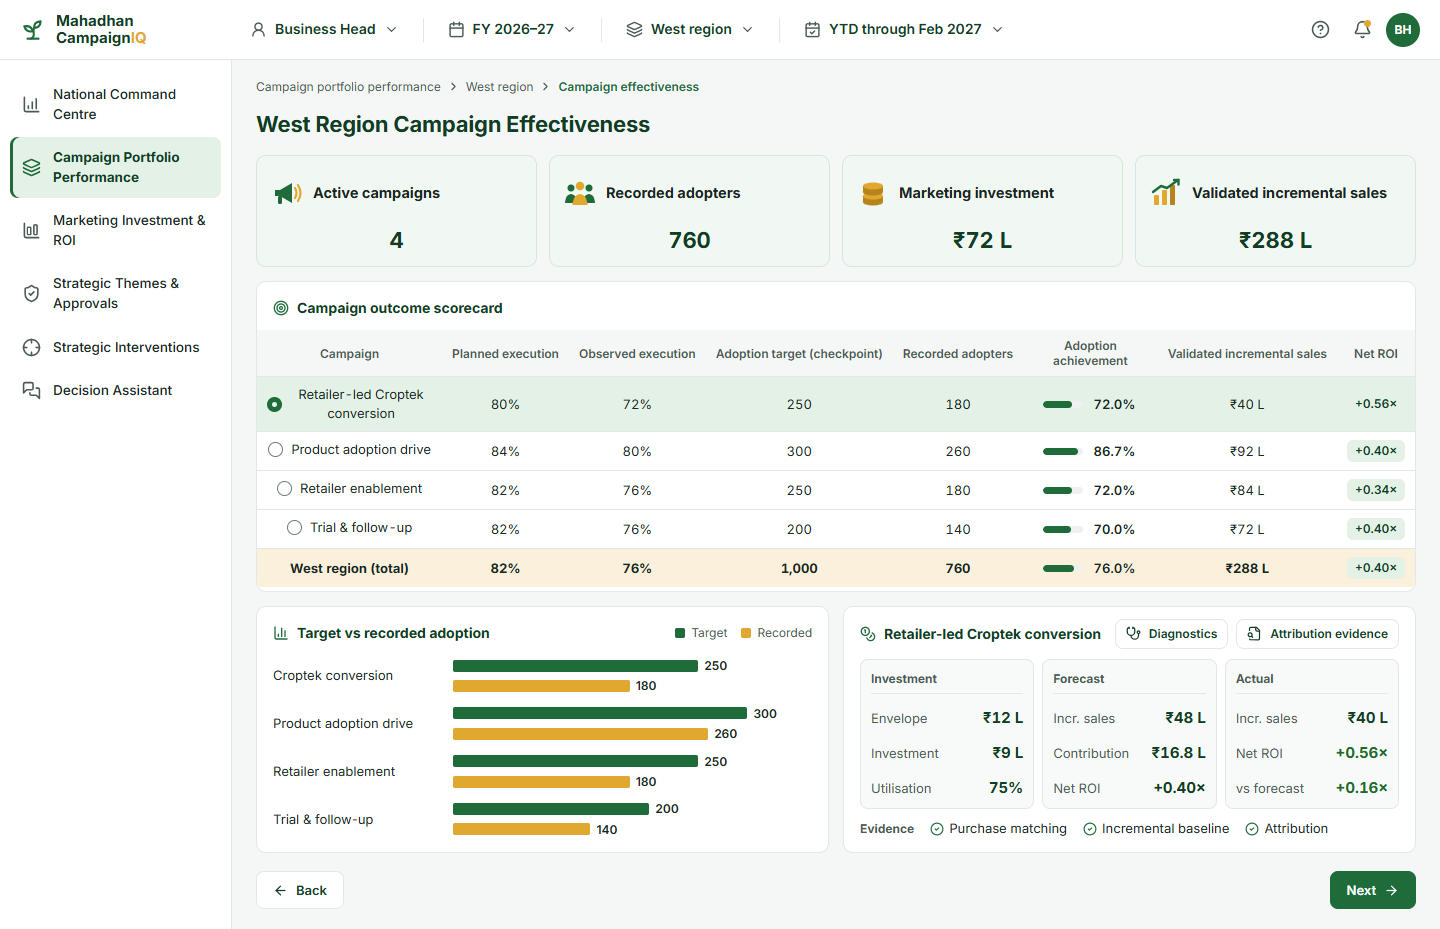
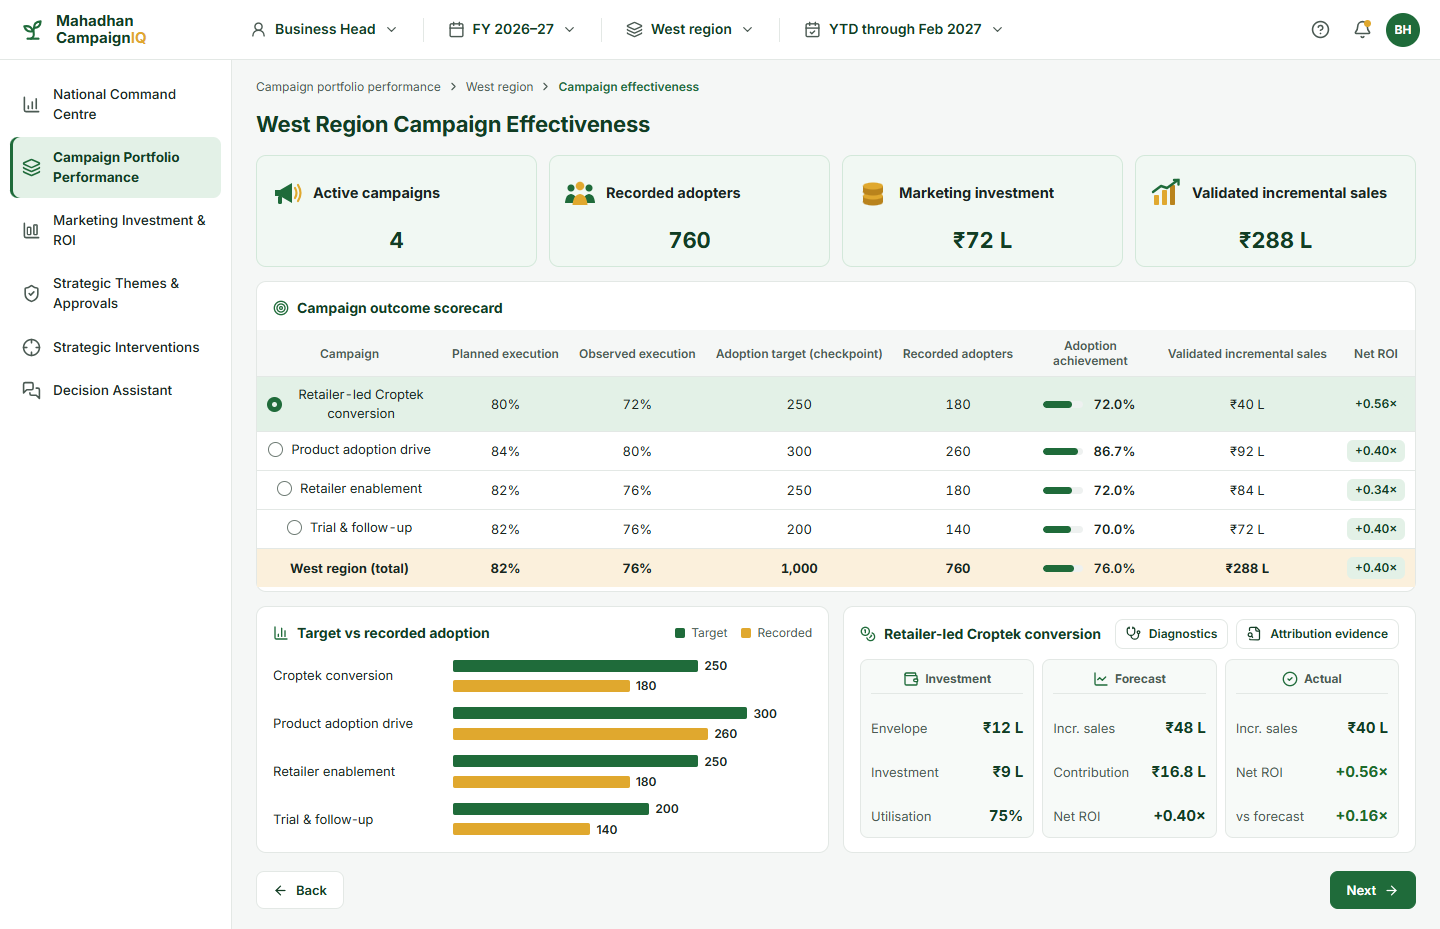
BH: Croptek card panel titles centred, evidence removed

Changed region(s): [[0.5938, 0.718, 0.9688, 0.9053]]

diff --git a/campaigniq-v3/src/screens/Effectiveness.tsx b/campaigniq-v3/src/screens/Effectiveness.tsx
@@ -1,5 +1,5 @@
 /** Screen 5 — Campaign Effectiveness (mockup BH.2a.png) with screen 6 — Campaign Diagnostics drawer (BH.2b.png). */
-import { CircleCheck, ChartColumn, Coins, FileSearch, FileText, Stethoscope, Target } from 'lucide-react';
+import { CheckCircle2, LineChart, Wallet, ChartColumn, Coins, FileSearch, FileText, Stethoscope, Target } from 'lucide-react';
 import { useState } from 'react';
 import { useSearchParams } from 'react-router-dom';
 import { AMBAD, ambadMetrics, businessCase, netRoi, regionRoi, campaignById, campaignMetrics, campaignsOf, campaignTotals, regionById, type Campaign, type CampaignId } from '../data/bh';
@@ -13,7 +13,6 @@ import { Drawer, EvidenceDrawer, type Evidence } from '../ui/overlay';
 import { useBhStore } from '../store/bhStore';
 import { useGo, useRouteRegion } from './common';
 
-const EVIDENCE_ITEMS = ['Purchase matching', 'Incremental baseline', 'Attribution'];
 
 export function Effectiveness() {
   const go = useGo();
@@ -101,22 +100,21 @@ export function Effectiveness() {
 function CommercialStrip({ c, onDiagnostics, onEvidence }: { c: Campaign; onDiagnostics: () => void; onEvidence: () => void }) {
   const m = campaignMetrics(c);
   const bc = businessCase(c.id);
-  const panels: { title: string; rows: { label: string; value: string; good?: boolean }[] }[] = [
-    { title: 'Investment', rows: [{ label: 'Envelope', value: lakh(c.approved) }, { label: 'Investment', value: lakh(c.actual) }, { label: 'Utilisation', value: pct(m.utilisationPct, 0) }] },
-    { title: 'Forecast', rows: [{ label: 'Incr. sales', value: lakh(bc.forecastSales) }, { label: 'Contribution', value: lakh(bc.contribution) }, { label: 'Net ROI', value: times(bc.netRoi) }] },
-    { title: 'Actual', rows: [{ label: 'Incr. sales', value: lakh(bc.validatedSales) }, { label: 'Net ROI', value: times(bc.actualRoi), good: true }, { label: 'vs forecast', value: times(bc.actualRoi - bc.netRoi), good: true }] },
+  const panels: { title: string; icon: typeof Wallet; rows: { label: string; value: string; good?: boolean }[] }[] = [
+    { title: 'Investment', icon: Wallet, rows: [{ label: 'Envelope', value: lakh(c.approved) }, { label: 'Investment', value: lakh(c.actual) }, { label: 'Utilisation', value: pct(m.utilisationPct, 0) }] },
+    { title: 'Forecast', icon: LineChart, rows: [{ label: 'Incr. sales', value: lakh(bc.forecastSales) }, { label: 'Contribution', value: lakh(bc.contribution) }, { label: 'Net ROI', value: times(bc.netRoi) }] },
+    { title: 'Actual', icon: CheckCircle2, rows: [{ label: 'Incr. sales', value: lakh(bc.validatedSales) }, { label: 'Net ROI', value: times(bc.actualRoi), good: true }, { label: 'vs forecast', value: times(bc.actualRoi - bc.netRoi), good: true }] },
   ];
   return (
     <Card className="ce-card" title={`${c.name}`} icon={Coins} right={<><Button small icon={Stethoscope} onClick={onDiagnostics}>Diagnostics</Button><Button small icon={FileSearch} onClick={onEvidence}>Attribution evidence</Button></>}>
       <div className="ce-panels">
         {panels.map((p) => (
           <div key={p.title} className="ce-panel">
-            <div className="ce-panel-title">{p.title}</div>
+            <div className="ce-panel-title"><p.icon size={16} />{p.title}</div>
             {p.rows.map((r) => <div key={r.label} className="ce-row"><span>{r.label}</span><b className={r.good ? 'good' : undefined}>{r.value}</b></div>)}
           </div>
         ))}
       </div>
-      <div className="ce-evidence"><span>Evidence</span>{EVIDENCE_ITEMS.map((e) => <span key={e} className="ce-ev"><CircleCheck size={14} />{e}</span>)}</div>
     </Card>
   );
 }

diff --git a/campaigniq-v3/src/styles.css b/campaigniq-v3/src/styles.css
@@ -195,7 +195,8 @@ textarea.input { height: auto; min-height: 60px; padding: 8px 10px; resize: vert
 .ce-card .card-head .right { flex-wrap: nowrap; flex: none; }
 .ce-panels { display: grid; grid-template-columns: repeat(3, minmax(0, 1fr)); gap: 8px; flex: 1; }
 .ce-panel { background: var(--panel-bg); border: 1px solid var(--line); border-radius: 8px; padding: 10px 10px; display: flex; flex-direction: column; justify-content: space-between; gap: 8px; }
-.ce-panel-title { font-size: 12px; font-weight: 700; color: var(--ink-soft); padding-bottom: 6px; border-bottom: 1px solid var(--line); }
+.ce-panel-title { font-size: 12px; font-weight: 700; color: var(--ink-soft); padding-bottom: 6px; border-bottom: 1px solid var(--line); display: flex; align-items: center; justify-content: center; gap: 6px; }
+.ce-panel-title svg { color: var(--brand); flex: none; }
 .ce-row { display: flex; justify-content: space-between; align-items: baseline; gap: 6px; }
 .ce-row span { font-size: 13px; color: var(--ink-soft); white-space: nowrap; overflow: hidden; text-overflow: ellipsis; }
 .ce-row b { font-size: 15px; font-weight: 700; color: var(--dark); font-variant-numeric: tabular-nums; white-space: nowrap; }
